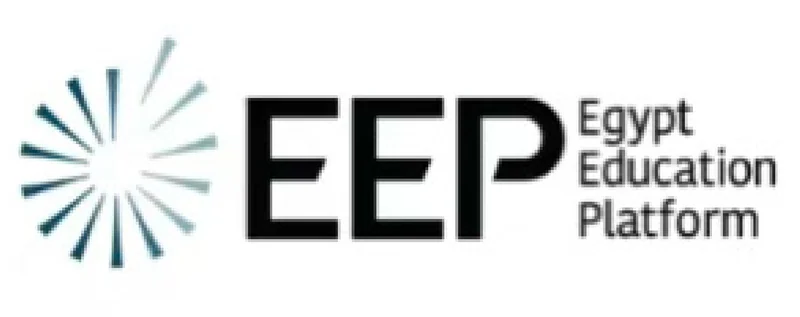
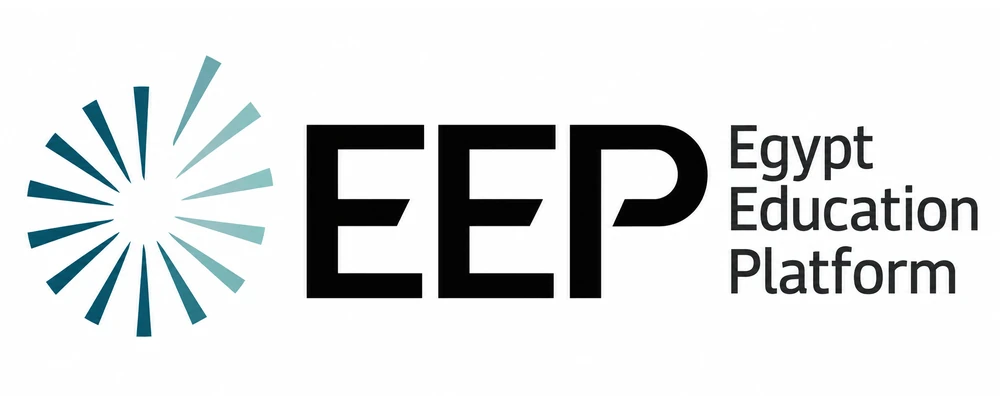
Use EFG's higher-resolution pictures for 23 site images, cut to the same framing

Changed region(s): [[0.1562, 0.2839, 1.0, 0.7666], [0.0, 0.1136, 0.2812, 0.8517], [0.7188, 0.6246, 0.9688, 0.7666]]

diff --git a/tools/replace-hires.py b/tools/replace-hires.py
@@ -1,0 +1,179 @@
+#!/usr/bin/env python3
+"""Swap pictures for the higher-resolution files EFG supplied (October 2026).
+
+EFG's folder "Sus report pics 2026" holds better copies of pictures the site
+had cut from the printed PDF. Each supplied file is matched against the
+picture it replaces (a multi-scale template match), cut to the same framing,
+and written over it under the same name, so no page markup has to change.
+Pictures EFG did not supply are left as they are.
+
+    python3 tools/replace-hires.py "<path to Sus report pics 2026>"
+"""
+import sys
+from pathlib import Path
+
+import cv2
+import numpy as np
+from PIL import Image
+
+ROOT = Path(__file__).resolve().parent.parent
+ASSETS = ROOT / 'src' / 'assets' / 'report'
+
+# asset it replaces, supplied file, width to write, key out the white ground
+SIMPLE = [
+    ('soc/p44-engazaat', 'Engazaat Solar Water Company Logo pg 44.png', 1000, True),
+    ('soc/p49-award', 'MENA Banking Excellence Winner Badge 49.png', 1000, False),
+    ('soc/p55-efg-finance-smes', 'EFG Finance SMEs Corporate Banner Pg55.png', 1400, True),
+    ('soc/p63-smc', 'SMC Healthcare Sunburst Logo pg63.png', 1000, True),   # sits on the cream advisory card
+    ('soc/p65-eep', 'EEP Egypt Education Platform Logo pg65.png', 1000, False),
+    ('soc/p67-sep', 'SEP Spark Education Platform Logo pg67.png', 1000, False),
+    ('soc/p68-taaleem', 'Taaleem Empowering Knowledge Logo pg68.png', 1000, False),
+    ('soc/p69-robogarden', 'RoboGarden Egypt Logo on White pg 69.png', 1000, False),
+    ('soc/p71-student-1', 'Hijab Portrait with Glasses pg71.png', 1000, False),
+    ('soc/p71-student-2', 'School Portrait with Green Lanyard pg71.png', 1000, False),
+    ('env/p25-team', 'Bank NXT high res.png', 1800, False),
+    ('env/p25-ev-car', 'sus report page 25 high res.png', 1000, False),
+    ('ste/p107-one-1', 'Vibrant Arabic Megaphone Poster pg107.png', 800, False),
+    ('ste/p107-one-2', 'Arabic Investor Terminology Infographic pg 107.png', 800, False),
+    ('ste/p107-one-3', 'Investing Mistakes Notebook Poster pg107.png', 800, False),
+    ('ste/p123-athlete', 'Smiling Squash Champion Valu Poster pg 123.png', 1000, False),
+]
+# soc/p56-poster: the supplied p56-poster-8B1IEO30.webp is byte-for-byte the site's own file.
+
+COLLAGE = 'Enhanced Six-Photo Portrait and Nature Collage page 41.png'
+PARTNERS = {
+    'german': 'German–Egyptian Cooperation Ribbon Logo page 37.png',
+    'giz': 'Red GIZ Corporate Logo on White pg37.png',
+    'frankfurt': 'Frankfurt School Corporate Logo.png',
+}
+# The old logo's ink in the PDF's strip image (x0, y0, x1, y1, its pixels),
+# cleared before the new one is laid on. GIZ's is cleared from the logo down
+# only, so the "Implemented by:" line above it stays.
+OLD_INK = {'german': (105, 42, 412, 215), 'giz': (487, None, 680, 193), 'frankfurt': (867, 80, 1294, 210)}
+
+
+def rgb(p, bg=255):
+    im = Image.open(p)
+    if im.mode != 'RGB':
+        im = im.convert('RGBA'); b = Image.new('RGBA', im.size, (bg,) * 3 + (255,)); b.alpha_composite(im); im = b
+    return im.convert('RGB')
+
+
+def locate(cur, new, lo=0.15, hi=1.6, steps=70, work=900):
+    """Where `cur` (PIL) sits in `new` (PIL), in `new`'s pixels: (x, y, w, h), score."""
+    C = cv2.cvtColor(np.asarray(cur), cv2.COLOR_RGB2GRAY).astype(np.float32)
+    N = cv2.cvtColor(np.asarray(new), cv2.COLOR_RGB2GRAY).astype(np.float32)
+    k = work / max(N.shape)
+    Ns = cv2.resize(N, None, fx=k, fy=k, interpolation=cv2.INTER_AREA)
+    pad = int(0.3 * max(Ns.shape))
+    Np = cv2.copyMakeBorder(Ns, pad, pad, pad, pad, cv2.BORDER_CONSTANT, value=255)
+    best = (-2.0, None)
+    for s in np.geomspace(lo, hi, steps):
+        w = int(round(s * Ns.shape[1])); h = int(round(w * C.shape[0] / C.shape[1]))
+        if w < 12 or h < 12 or w >= Np.shape[1] or h >= Np.shape[0]:
+            continue
+        T = cv2.resize(C, (w, h), interpolation=cv2.INTER_AREA)
+        if T.std() < 1:
+            continue
+        r = cv2.matchTemplate(Np, T, cv2.TM_CCOEFF_NORMED)
+        _, mv, _, ml = cv2.minMaxLoc(r)
+        if mv > best[0]:
+            best = (mv, (ml[0] - pad, ml[1] - pad, w, h))
+    score, (x, y, w, h) = best
+    return (x / k, y / k, w / k, h / k), score
+
+
+def cut(new, box):
+    """Crop `new` to `box`, padding with white where the box runs past its edge."""
+    x, y, w, h = [int(round(v)) for v in box]
+    canvas = Image.new('RGB', (w, h), 'white')
+    canvas.paste(new.crop((max(x, 0), max(y, 0), min(x + w, new.width), min(y + h, new.height))),
+                 (max(-x, 0), max(-y, 0)))
+    return canvas
+
+
+def unwhite(im, floor=26):
+    a = np.asarray(im.convert('RGB')).astype(float)
+    alpha = 255.0 - a.min(axis=2)
+    alpha[alpha < floor] = 0
+    k = np.clip(alpha / 255.0, 1e-3, 1)[..., None]
+    out = np.clip(255 - (255 - a) / k, 0, 255)
+    return Image.fromarray(np.dstack([out, alpha]).astype('uint8'), 'RGBA')
+
+
+def save(im, name, width):
+    if im.width > width:
+        im = im.resize((width, round(im.height * width / im.width)), Image.LANCZOS)
+    dest = ASSETS / f'{name}.webp'
+    im.save(dest, quality=90, method=6)
+    return im.size
+
+
+def main(src):
+    src = Path(src)
+    for name, fname, width, key in SIMPLE:
+        cur = rgb(ASSETS / f'{name}.webp')
+        new = rgb(src / fname)
+        box, score = locate(cur, new)
+        im = cut(new, box)
+        if key:
+            im = unwhite(im)
+        size = save(im, name, width)
+        print(f'{name:28s} score {score:.2f}  ->  {size[0]}x{size[1]}')
+
+    # printed page 41: six photographs supplied as one collage, three across and
+    # two down with white gutters. EFG's tiles are cropped tighter than the
+    # print's photographs, so each is cut to the card's own 153.1 x 85.2pt shape
+    # from the top of its tile, where the faces are (the landscape lower down).
+    col = rgb(src / COLLAGE)
+    xs = [(0, 556), (561, 1122), (1128, 1684)]
+    ys = [(0, 464), (470, 934)]
+    # card number: (column, row, how far down the tile the window starts, 0..1)
+    tiles = {1: (1, 0, 0.0), 2: (0, 0, 0.0), 3: (2, 0, 0.0),
+             5: (0, 1, 0.0), 6: (1, 1, 0.5), 4: (2, 1, 0.35)}
+    for n, (c, r, down) in sorted(tiles.items()):
+        x0, x1 = xs[c]; y0, y1 = ys[r]
+        h = round((x1 - x0) * 85.2 / 153.1)
+        top = y0 + round((y1 - y0 - h) * down)
+        size = save(col.crop((x0, top, x1, top + h)), f'env/p41-photo-{n}', 900)
+        print(f'env/p41-photo-{n}  ->  {size[0]}x{size[1]}')
+
+    # printed page 37: the partners' strip is one picture in the PDF. It is
+    # recomposed at twice the size of the PDF's own image, with the three logos
+    # EFG supplied laid over their places; Bank NXT and the small "Implemented
+    # by:" line, which EFG did not supply, are the PDF's own, enlarged.
+    import pymupdf
+    doc = pymupdf.open(ROOT / 'public' / 'EFG-Holding-Sustainability-Report-2025.pdf')
+    pix = pymupdf.Pixmap(doc, 235)
+    if pix.alpha:
+        pix = pymupdf.Pixmap(pix, 0)
+    if pix.colorspace.n != 3:
+        pix = pymupdf.Pixmap(pymupdf.csRGB, pix)
+    strip = Image.frombytes('RGB', (pix.width, pix.height), pix.samples)
+    S = 2
+    base = np.asarray(strip.resize((strip.width * S, strip.height * S), Image.LANCZOS)).astype(np.float32)
+    for key_, fname in PARTNERS.items():
+        logo = rgb(src / fname)
+        # find the logo's ink, then where that ink sits in the strip
+        a = np.asarray(logo).min(axis=2) < 200
+        ys, xs = np.where(a)
+        ink = logo.crop((xs.min(), ys.min(), xs.max() + 1, ys.max() + 1))
+        box, score = locate(ink, strip, lo=0.08, hi=0.5, steps=120, work=2152)
+        x, y, w, h = [v * S for v in box]
+        tile = np.asarray(ink.resize((int(round(w)), int(round(h))), Image.LANCZOS)).astype(np.float32)
+        x0, y0 = int(round(x)), int(round(y))
+        # clear the old logo's ink, then lay the new one on
+        ox0, oy0, ox1, oy1 = OLD_INK[key_]
+        oy0 = y0 / S if oy0 is None else oy0
+        m = 4
+        base[int((oy0 - m) * S):int((oy1 + m) * S), int((ox0 - m) * S):int((ox1 + m) * S)] = 255
+        region = base[y0:y0 + tile.shape[0], x0:x0 + tile.shape[1]]
+        region[:] = np.minimum(region, tile[:region.shape[0], :region.shape[1]])
+        print(f'env/p37-partners {key_:10s} score {score:.2f}  at {x0},{y0} {tile.shape[1]}x{tile.shape[0]}')
+    out = Image.fromarray(base.clip(0, 255).astype('uint8'), 'RGB')
+    size = save(out, 'env/p37-partners', 2800)
+    print(f'env/p37-partners -> {size[0]}x{size[1]}')
+
+
+if __name__ == '__main__':
+    main(sys.argv[1])

diff --git a/tools/assets.py b/tools/assets.py
@@ -14,6 +14,9 @@ crop is deliberately a slice of a larger field.
           'flat' used exactly as boxed
   mask    optional: rectangles of the page, in points, to clear after the
           crop — for a mark the print sets with its caption written across it
+
+NOTE: 23 of these pictures were later replaced with EFG's own higher-resolution
+files by tools/replace-hires.py. Run it again after rebuilding from this list.
 """
 A = [
   # ---- the printed cover, sheet 0 ---------------------------------------

diff --git a/HANDOVER.md b/HANDOVER.md
@@ -165,6 +165,22 @@ what was done:
   description breaking on the print's lines, with the five spokes as a
   decorative SVG on the same box. Below 900px it stacks into the hub and a list.
 
+- **EFG's higher-resolution pictures (October 2026).** EFG supplied 21 files
+  ("Sus report pics 2026"). Twenty-three site pictures now use them, each cut
+  to the same framing as the picture it replaced (`tools/replace-hires.py`,
+  which matches every file against the old picture): the logos on pages 44,
+  55, 63, 65, 67, 68 and 69, the page 49 award, the page 71 portraits, the
+  page 25 team photograph and EV charger, the three ONE posters on page 107,
+  the page 123 Valu poster, the six page 41 photographs (cut from EFG's single
+  collage) and the page 37 partners strip (rebuilt with the new German
+  Cooperation, GIZ and Frankfurt School logos; Bank NXT and "Implemented by:"
+  are still the PDF's, as EFG sent no replacement). The supplied page 56 poster
+  is the site's own file. Every picture EFG did not send is unchanged. Note
+  that EFG's page 41 photographs are cropped tighter than the print's.
+  **Re-running `tools/build-assets.py` or `tools/extract-raw-photos.py` would
+  overwrite these with the PDF's lower-resolution copies — run
+  `tools/replace-hires.py` again afterwards.**
+
 ### How the second round was run
 
 A senior product designer reviewed each comment against the PDF, a front-end
